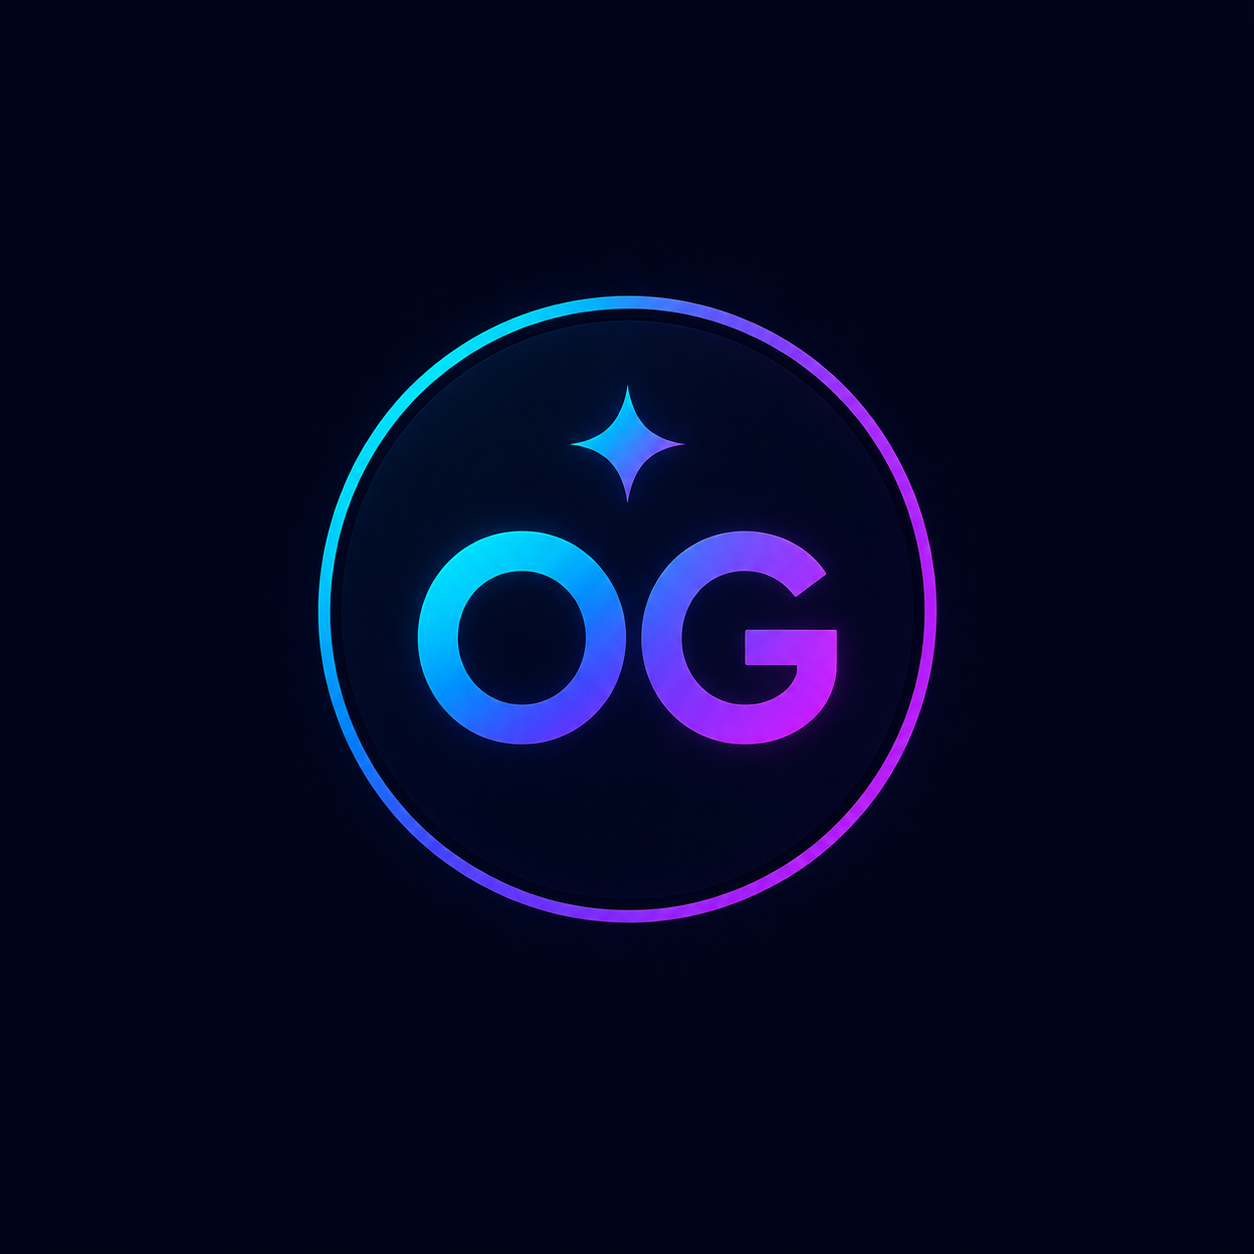
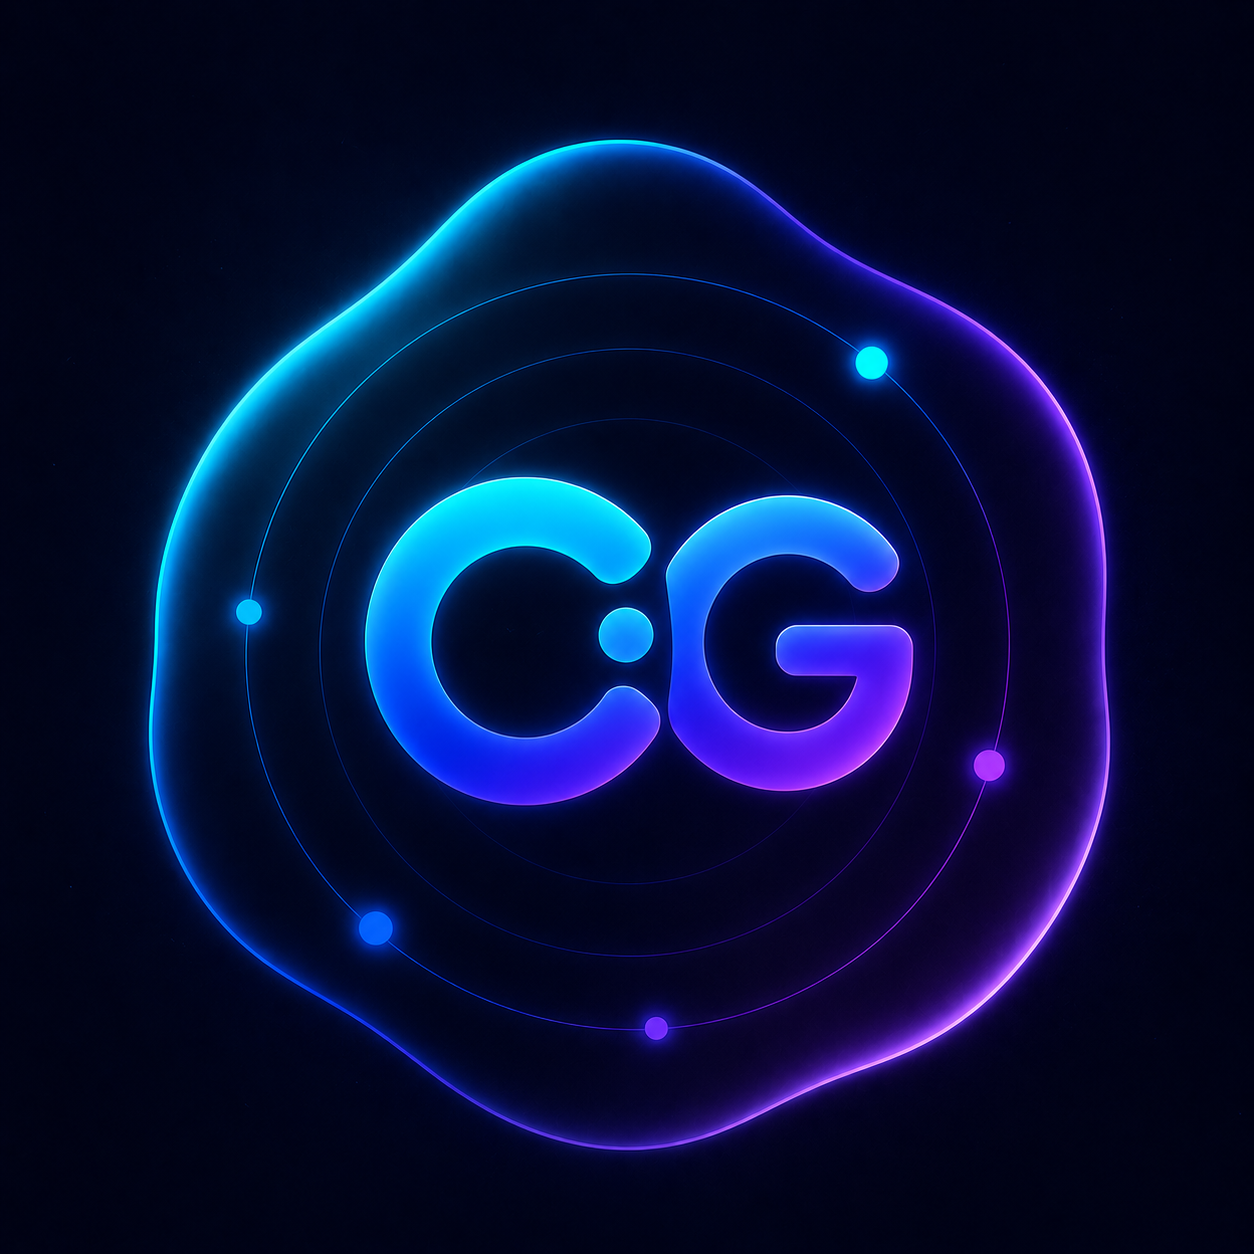
feat(portal): swap in new badge artwork (welcome, connector, 7-day, 100tx, OG)
Replace badge images in BADGE_META with the new PNGs the user supplied:
- welcome  -> welcomeO.png  (was social/LogoWelcome.png; drop dead welcome.svg fallback)
- referral -> Connector.png (was referral.svg)
- streak7  -> 7days.png     (was streak7.png)
- tx100    -> 100txns.png   (was tx100.png)
- og       -> og.png?v=3    (replaced in place; cache-bust)

Remove the superseded badge files. og.png kept lowercase to match git's
tracked path (core.ignorecase=true on Windows) so the case-sensitive
Cloudflare Pages host serves it correctly.

Changed region(s): [[0.0933, 0.0933, 0.9019, 0.933], [0.2177, 0.622, 0.2488, 0.6842]]

diff --git a/portal.html b/portal.html
@@ -286,14 +286,14 @@
 
   // -- Badge definitions --
   const BADGE_META = {
-    welcome:  { img: '/assets/social/LogoWelcome.png',  name: 'Welcome to Oneliq', tip: 'Complete all five onboarding tasks', fallback: '/assets/badges/welcome.svg' },
-    referral: { img: '/assets/badges/referral.svg',     name: 'Connector',         tip: 'Invite 10 friends who join through your Portal link',
+    welcome:  { img: '/assets/badges/welcomeO.png',     name: 'Welcome to Oneliq', tip: 'Complete all five onboarding tasks' },
+    referral: { img: '/assets/badges/Connector.png',    name: 'Connector',         tip: 'Invite 10 friends who join through your Portal link',
                 goal: 10,  unit: 'invites', stat: s => s?.referral_count || 0 },
-    streak7: { img: '/assets/badges/streak7.png?v=2', name: '7-Day Streak',      tip: 'Check in 7 days in a row',
+    streak7: { img: '/assets/badges/7days.png',       name: '7-Day Streak',      tip: 'Check in 7 days in a row',
                goal: 7,   unit: 'days', stat: s => s?.streak   || 0 },
-    tx100:   { img: '/assets/badges/tx100.png?v=2',   name: '100 Transactions',  tip: '100 on-chain transactions on Arc Testnet',
+    tx100:   { img: '/assets/badges/100txns.png',     name: '100 Transactions',  tip: '100 on-chain transactions on Arc Testnet',
                goal: 100, unit: 'txs',  stat: s => s?.tx_count || 0 },
-    og:      { img: '/assets/badges/og.png?v=2',      name: 'OG',                tip: 'Verified OG role in Oneliq Discord' },
+    og:      { img: '/assets/badges/og.png?v=3',      name: 'OG',                tip: 'Verified OG role in Oneliq Discord' },
   };
 
   // -- Streak display --